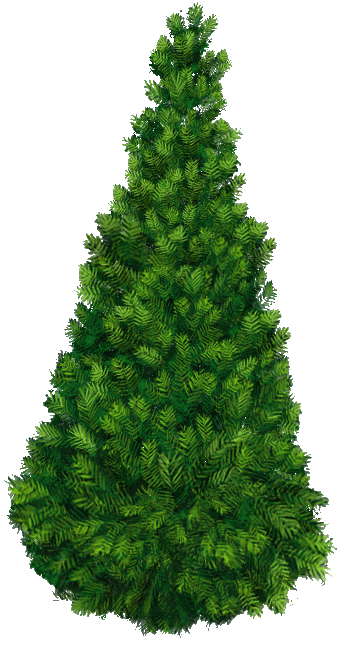
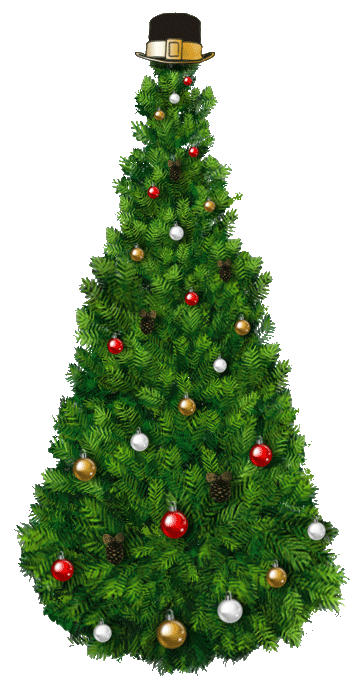
добавила на елочку гирлянду и украшения

diff --git a/index.html b/index.html
@@ -28,7 +28,7 @@
 	   <div class="fireworks"><img src="оранжевый-размытый.gif" width="150" height="150"> </div>
 	   <div class="fireworks-1"><img src="желто-зеленый.gif" width="150" height="150"> </div>
 	   <div class="fireworks-2"><img src="синий.gif" width="100" height="100"> </div>
-        <div class="picture"><img src="Елочка!.png" width = 220 px>
+        <div class="picture"><img src="Елочка-с-гирляндой.gif" width = 200 px>
         </div>
 		    <p class="poem">
     		    Пусть отзовется искоркой тепла,<br>
